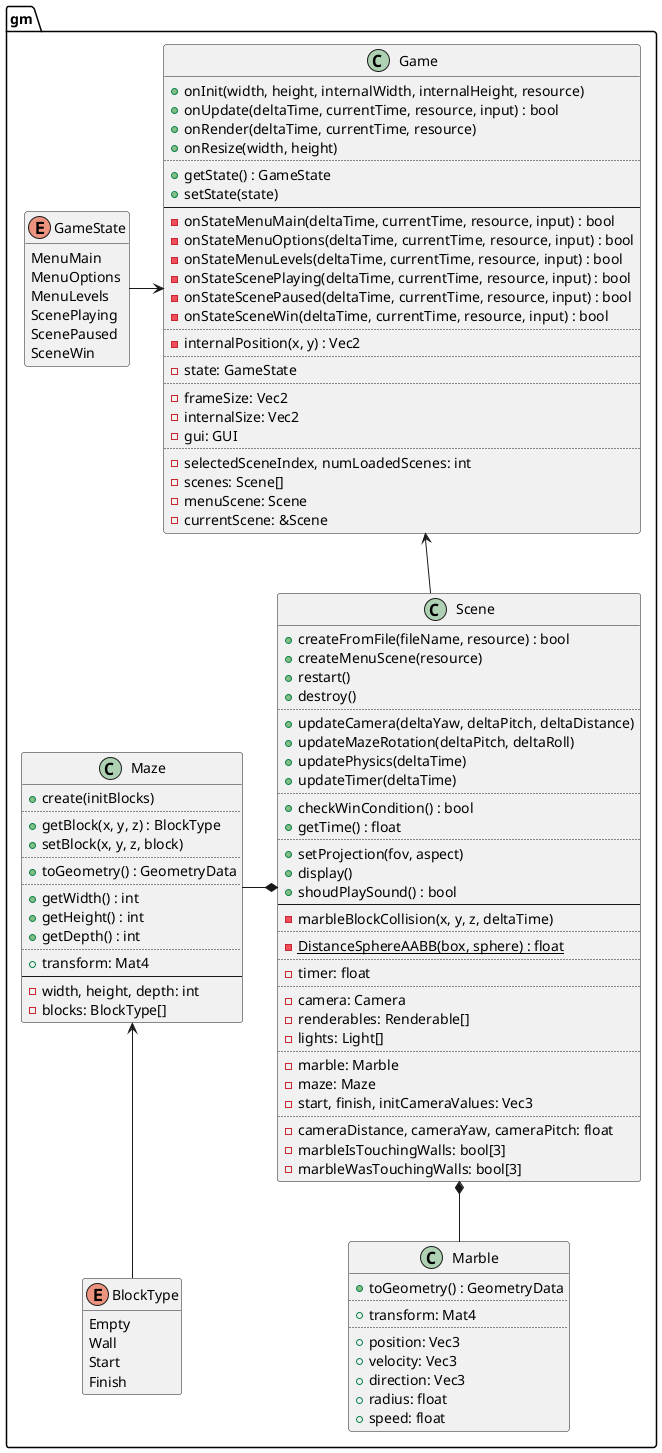
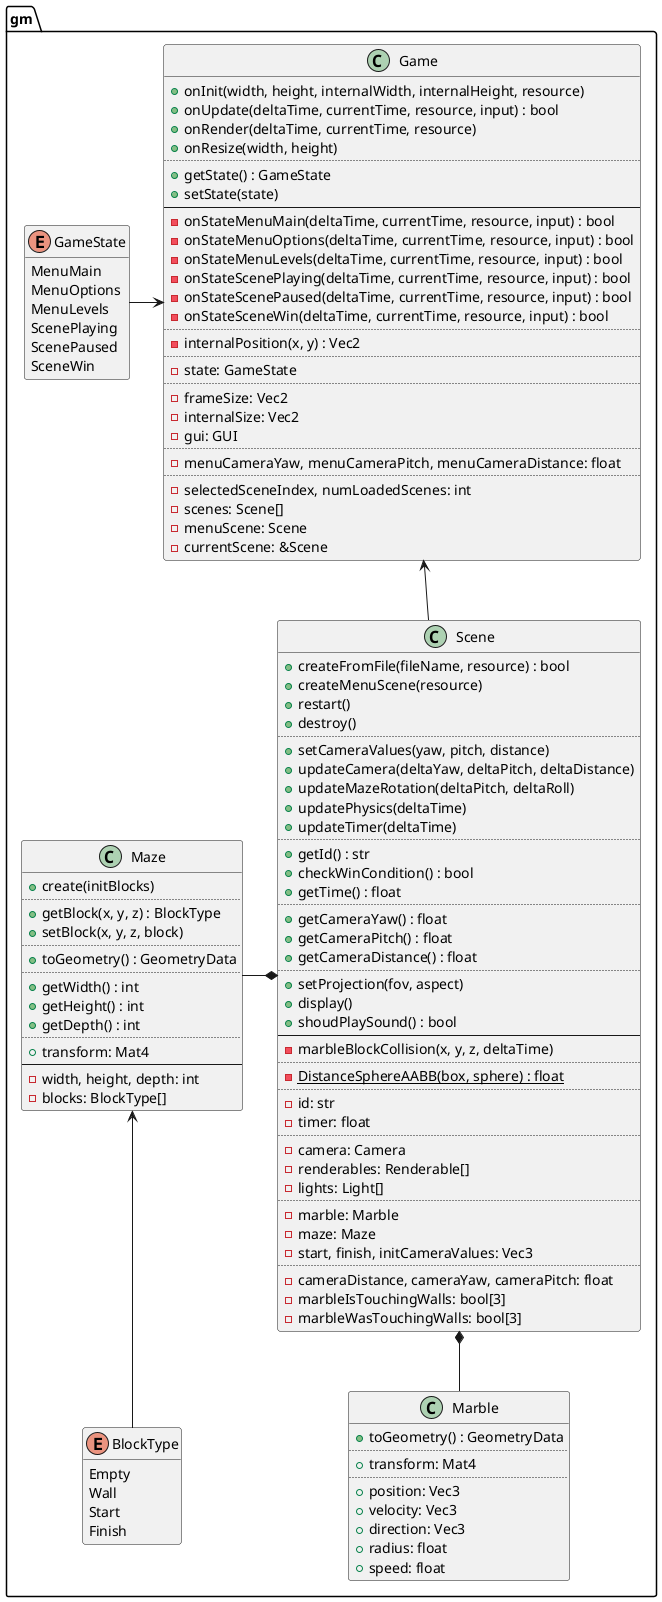
Added Scene::id, Scene's Camera radial getters and setters, Game's menu Camera radial values

diff --git a/src/gm/scene.cpp b/src/gm/scene.cpp
@@ -8,7 +8,7 @@
 using namespace gm;
 
 Scene::Scene()
-		: timer(0), camera(), renderables()
+		: id(""), timer(0), camera(), renderables()
 		, marble(), maze(), start({0, 0, 0}), finish({0, 0, 0}), initCameraValues({0, 0, 0})
 		, cameraDistance(0), cameraYaw(0), cameraPitch(0)
 		, marbleIsTouchingWalls({false, false, false}), marbleWasTouchingWalls({false, false, false}) {
@@ -23,7 +23,7 @@ bool Scene::createFromFile(std::string_view fileName, rs::ResourceManager& resou
 	}
 
 	std::string configLine;
-	std::string id, marbleMaterialName, mazeMaterialName, finishMaterialName, skyboxMaterialName;
+	std::string marbleMaterialName, mazeMaterialName, finishMaterialName, skyboxMaterialName;
 	size_t mazeWidth = 0, mazeDepth = 0, mazeHeight = 0;
 	BlockVector3D initBlocks;
 	while (std::getline(configIn, configLine)) {
@@ -36,7 +36,6 @@ bool Scene::createFromFile(std::string_view fileName, rs::ResourceManager& resou
 		configStream >> configToken;
 		if (configToken == "INTERNAL_ID") {
 			configStream >> id;
-			id += "_";
 		}
 		if (configToken == "LIGHT_POSITION") {
 			configStream >> light.position.x >> light.position.y >> light.position.z;
@@ -152,21 +151,21 @@ bool Scene::createFromFile(std::string_view fileName, rs::ResourceManager& resou
 	updateCamera();
 	initCameraValues = {cameraDistance, cameraYaw, cameraPitch};
 
-	rs::Mesh& mazeMesh = resource.createMesh(id + "maze", 36 * mazeWidth * mazeHeight * mazeDepth);
+	rs::Mesh& mazeMesh = resource.createMesh(id + "_maze", 36 * mazeWidth * mazeHeight * mazeDepth);
 	mazeMesh.addGeometry(maze.toGeometry());
 
-	rs::Mesh& marbleMesh = resource.createMesh(id + "marble", 960);
+	rs::Mesh& marbleMesh = resource.createMesh(id + "_marble", 960);
 	marbleMesh.addGeometry(marble.toGeometry());
 
 	ge::GeometryData finishCube = ge::GeometryGenerator::GenerateCube();
 	ge::GeometryTransform::Translate(finishCube, finish);
-	rs::Mesh& finishMesh = resource.createMesh(id + "finish", 36);
+	rs::Mesh& finishMesh = resource.createMesh(id + "_finish", 36);
 	finishMesh.addGeometry(finishCube);
 
 	ge::GeometryData skybox = ge::GeometryGenerator::GenerateCube();
 	ge::GeometryTransform::Scale(skybox, {1000, 1000, 1000});
 	ge::GeometryTransform::Translate(skybox, cameraTarget);
-	rs::Mesh& skyboxMesh = resource.createMesh(id + "skybox", 36);
+	rs::Mesh& skyboxMesh = resource.createMesh(id + "_skybox", 36);
 	skyboxMesh.addGeometry(skybox);
 
 	renderables.push_back(rn::Renderable());
@@ -214,7 +213,7 @@ void Scene::createMenuScene(rs::ResourceManager& resource) {
 	};
 	cameraYaw = la::Pi / 2;
 	cameraPitch = la::Pi / 4;
-	cameraDistance = 8;
+	cameraDistance = 10;
 
 	maze.create(initBlocks);
 	marble.position = {3, 1, 3};
@@ -291,18 +290,10 @@ void Scene::destroy() {
 	marbleWasTouchingWalls = {false, false, false};
 }
 
-void Scene::updateCamera() {
-	updateCamera(0, 0, 0);
-}
-
-void Scene::updateCamera(float deltaYaw, float deltaPitch, float deltaDistance) {
-	cameraYaw += deltaYaw;
-	cameraPitch = std::min(std::max(cameraPitch + deltaPitch, -la::Pi / 2 + 0.1f), la::Pi / 2 - 0.1f);
-
-	cameraDistance += deltaDistance;
-	if (cameraDistance <= 0) {
-		cameraDistance = 0.1f;
-	}
+void Scene::setCameraValues(float yaw, float pitch, float distance) {
+	cameraYaw = yaw;
+	cameraPitch = std::min(std::max(pitch, -la::Pi / 2 + 0.1f), la::Pi / 2 - 0.1f);
+	cameraDistance = std::max(distance, 0.1f);
 
 	la::Vec3 offset = camera.getTarget();
 	la::Vec3 newPosition = {
@@ -311,6 +302,20 @@ void Scene::updateCamera(float deltaYaw, float deltaPitch, float deltaDistance) 
 		offset.z + std::cos(cameraPitch) * std::sin(cameraYaw) * cameraDistance,
 	};
 	camera.setPosition(newPosition);
+}
+
+void Scene::updateCamera() {
+	la::Vec3 offset = camera.getTarget();
+	la::Vec3 newPosition = {
+		offset.x + std::cos(cameraPitch) * std::cos(cameraYaw) * cameraDistance,
+		offset.y + std::sin(cameraPitch) * cameraDistance,
+		offset.z + std::cos(cameraPitch) * std::sin(cameraYaw) * cameraDistance,
+	};
+	camera.setPosition(newPosition);
+}
+
+void Scene::updateCamera(float deltaYaw, float deltaPitch, float deltaDistance) {
+	setCameraValues(cameraYaw + deltaYaw, cameraPitch + deltaPitch, cameraDistance + deltaDistance);
 }
 
 void Scene::updateMazeRotation(float deltaYaw, float deltaRoll) {
@@ -374,12 +379,28 @@ void Scene::updateTimer(float deltaTime) {
 	timer += deltaTime;
 }
 
+std::string_view Scene::getId() {
+	return id;
+}
+
 bool Scene::checkWinCondition() {
 	return DistanceSphereAABB(finish, marble.position) <= marble.radius;
 }
 
 float Scene::getTime() {
 	return timer;
+}
+
+float Scene::getCameraYaw() {
+	return cameraYaw;
+}
+
+float Scene::getCameraPitch() {
+	return cameraPitch;
+}
+
+float Scene::getCameraDistance() {
+	return cameraDistance;
 }
 
 void Scene::setProjection(float fov, float ratio) {

diff --git a/src/gm/game.cpp b/src/gm/game.cpp
@@ -9,6 +9,7 @@ using namespace gm;
 
 Game::Game()
 	: state(MenuMain), frameSize({0, 0}), internalSize({0, 0}), gui()
+	, menuCameraYaw(0), menuCameraPitch(0), menuCameraDistance(0)
 	, selectedSceneIndex(0), numLoadedScenes(0), scenes(), menuScene(), currentScene(nullptr) {}
 
 void Game::onInit(int width, int height, float internalWidth, float internalHeight, rs::ResourceManager& resource) {
@@ -23,22 +24,27 @@ void Game::onInit(int width, int height, float internalWidth, float internalHeig
 	menuScene.setProjection(72 * la::DegToRad, frameSize.x / frameSize.y);
 
 	std::set<std::filesystem::path> sceneFileNames;
-	for (const auto& entry : std::filesystem::directory_iterator(_RES_PATH "/scenes")) {
+	for (const auto& entry : std::filesystem::directory_iterator(_RES_PATH "scenes")) {
 		sceneFileNames.insert(entry.path());
 	}
 	for (const auto& fileName : sceneFileNames) {
 		scenes.push_back(Scene());
 		if (scenes[numLoadedScenes].createFromFile(fileName.c_str(), resource)) {
-			scenes[0].setProjection(72 * la::DegToRad, frameSize.x / frameSize.y);
-			DEBUG_TRACE("Loaded scene from %s", fileName.c_str());
+			DEBUG_TRACE("Loaded scene \"%s\" from %s", scenes[numLoadedScenes].getId().data(), fileName.c_str());
+			scenes[numLoadedScenes].setProjection(72 * la::DegToRad, frameSize.x / frameSize.y);
+			numLoadedScenes++;
 		} else {
 			DEBUG_ERROR("Failed to load scene from %s", fileName.c_str());
 			scenes[numLoadedScenes].destroy();
 		}
-		numLoadedScenes++;
 	}
 
 	currentScene = &menuScene;
+
+	menuCameraYaw = currentScene->getCameraYaw();
+	menuCameraPitch = currentScene->getCameraPitch();
+	menuCameraDistance = currentScene->getCameraDistance();
+
 	setState(MenuMain);
 }
 
@@ -159,7 +165,8 @@ void Game::setState(GameState newState) {
 bool Game::onStateMenuMain(
 		float deltaTime, float currentTime, rs::ResourceManager& resource, const in::Input& input) {
 
-	currentScene->updateCamera(deltaTime / 4, 0, 0);
+	menuCameraYaw += deltaTime / 4;
+	currentScene->setCameraValues(menuCameraYaw, menuCameraPitch, menuCameraDistance);
 
 	la::Vec2 scaledMouse = internalPosition(input.getMouseX(), input.getMouseY());
 
@@ -181,6 +188,7 @@ bool Game::onStateMenuMain(
 	if (onPlay) {
 		resource.getSound("select").play();
 		currentScene = &scenes[selectedSceneIndex];
+		currentScene->setCameraValues(menuCameraYaw, menuCameraPitch, menuCameraDistance);
 		currentScene->setProjection(72 * la::DegToRad, frameSize.x / frameSize.y);
 		setState(MenuLevels);
 	}
@@ -196,7 +204,8 @@ bool Game::onStateMenuOptions(
 bool Game::onStateMenuLevels(
 		float deltaTime, float currentTime, rs::ResourceManager& resource, const in::Input& input) {
 
-	currentScene->updateCamera(deltaTime / 4, 0, 0);
+	menuCameraYaw += deltaTime / 4;
+	currentScene->setCameraValues(menuCameraYaw, menuCameraPitch, menuCameraDistance);
 
 	la::Vec2 scaledMouse = internalPosition(input.getMouseX(), input.getMouseY());
 
@@ -220,6 +229,7 @@ bool Game::onStateMenuLevels(
 			selectedSceneIndex -= numLoadedScenes;
 		}
 		currentScene = &scenes[selectedSceneIndex];
+		currentScene->setCameraValues(menuCameraYaw, menuCameraPitch, menuCameraDistance);
 		currentScene->setProjection(72 * la::DegToRad, frameSize.x / frameSize.y);
 	}
 	if (onPrev) {
@@ -229,6 +239,7 @@ bool Game::onStateMenuLevels(
 			selectedSceneIndex += numLoadedScenes;
 		}
 		currentScene = &scenes[selectedSceneIndex];
+		currentScene->setCameraValues(menuCameraYaw, menuCameraPitch, menuCameraDistance);
 		currentScene->setProjection(72 * la::DegToRad, frameSize.x / frameSize.y);
 	}
 
@@ -312,6 +323,10 @@ bool Game::onStateSceneWin(
 		setState(ScenePlaying);
 	}
 	if (onQuit) {
+		menuCameraYaw = currentScene->getCameraYaw();
+		menuCameraPitch = currentScene->getCameraPitch();
+		menuCameraDistance = currentScene->getCameraDistance();
+
 		setState(MenuMain);
 	}
 	return true;

diff --git a/src/gm/scene.hpp b/src/gm/scene.hpp
@@ -22,14 +22,20 @@ namespace gm {
 		void restart();
 		void destroy();
 
+		void setCameraValues(float yaw, float pitch, float distance);
 		void updateCamera();
 		void updateCamera(float deltaYaw, float deltaPitch, float deltaDistance);
 		void updateMazeRotation(float deltaPitch, float deltaRoll);
 		void updatePhysics(float deltaTime);
 		void updateTimer(float deltaTime);
 
+		std::string_view getId();
 		bool checkWinCondition();
 		float getTime();
+
+		float getCameraYaw();
+		float getCameraPitch();
+		float getCameraDistance();
 
 		void setProjection(float fov, float ratio);
 		void display();
@@ -40,6 +46,7 @@ namespace gm {
 
 		static float DistanceSphereAABB(la::Vec3 box, la::Vec3 sphere);
 
+		std::string id;
 		float timer;
 
 		rn::Camera camera;

diff --git a/src/gm/game.hpp b/src/gm/game.hpp
@@ -51,6 +51,8 @@ namespace gm {
 		la::Vec2 frameSize, internalSize;
 		rn::GUI gui;
 
+		float menuCameraYaw, menuCameraPitch, menuCameraDistance;
+
 		int selectedSceneIndex, numLoadedScenes;
 		std::vector<Scene> scenes;
 		Scene menuScene;
